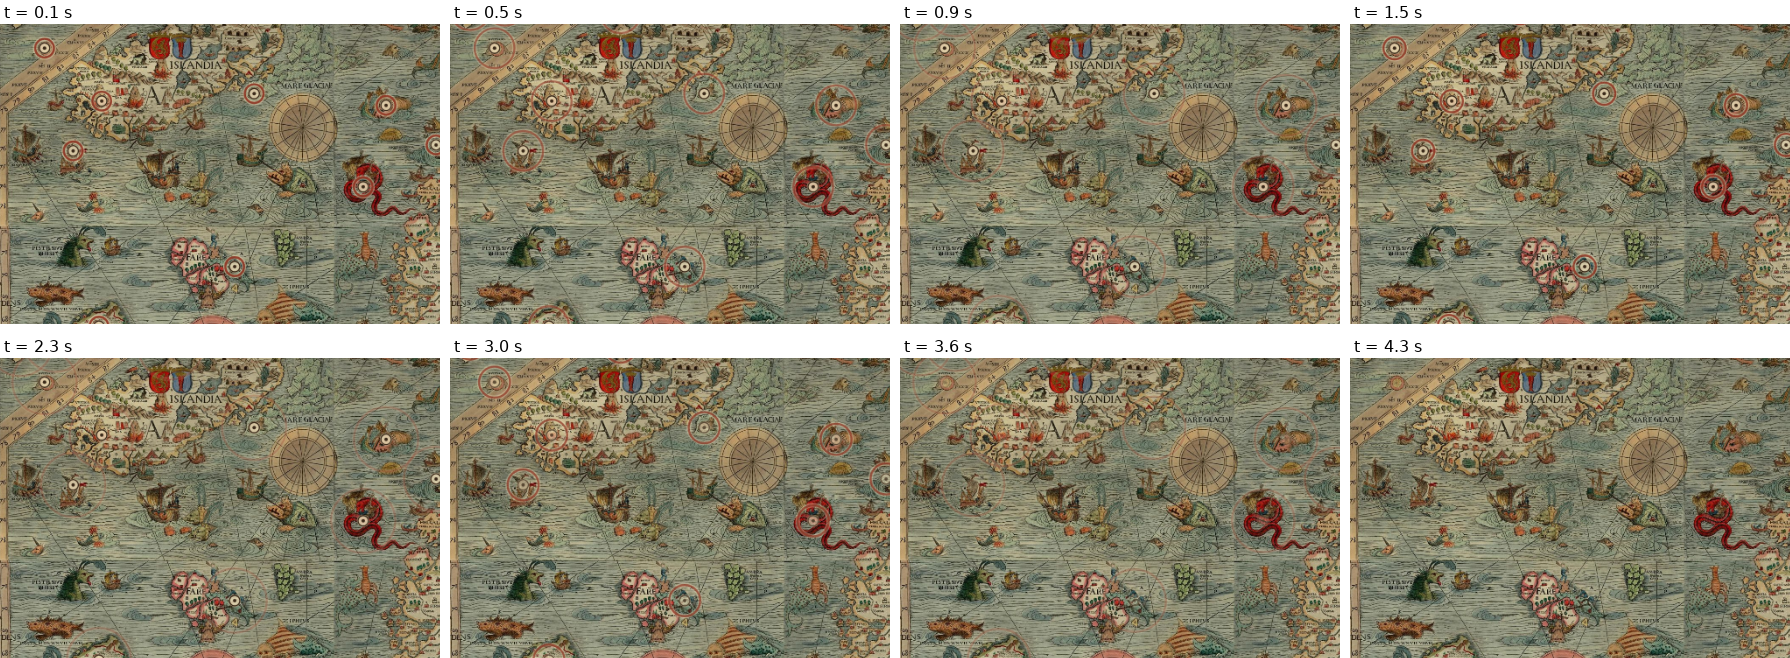
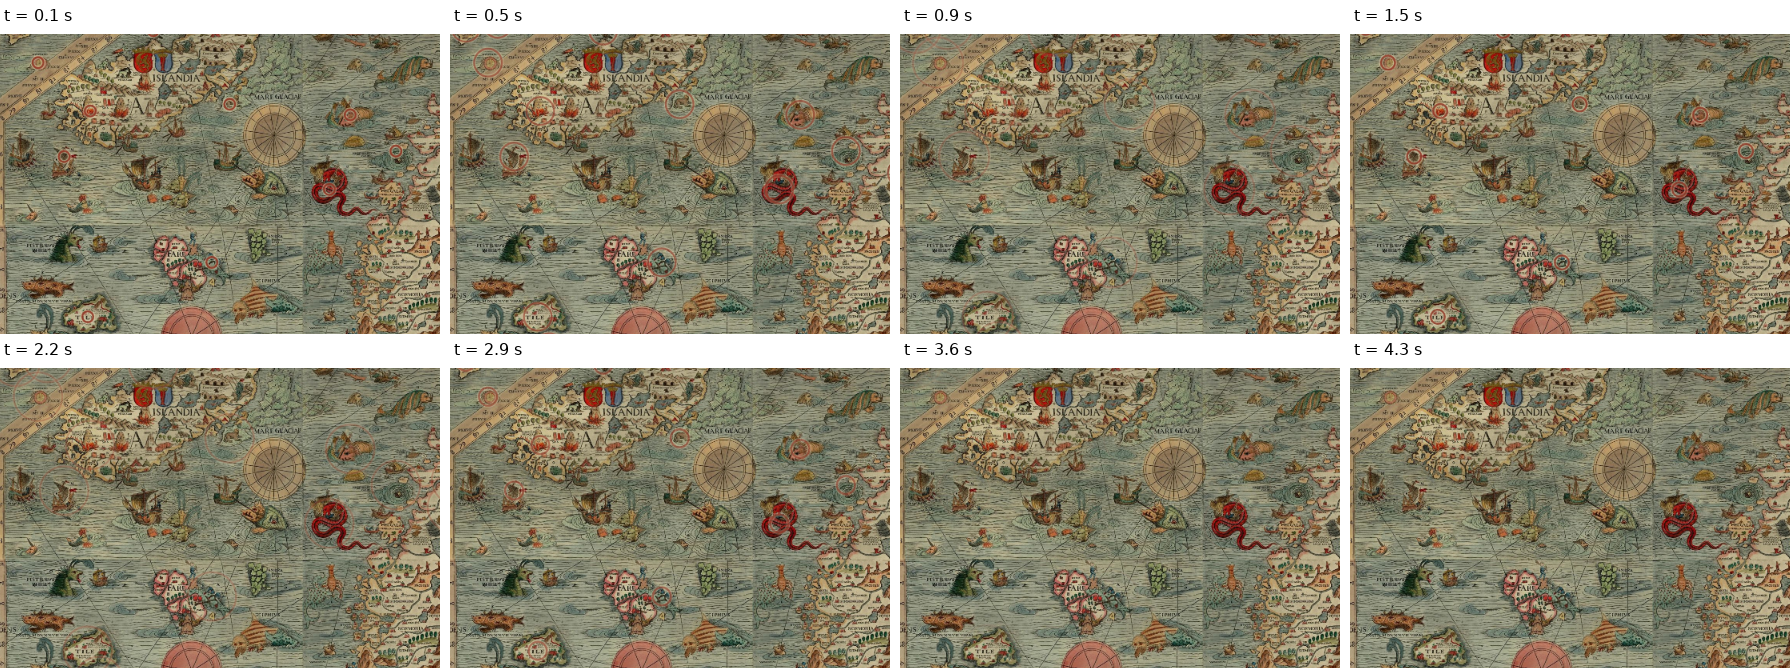
fix(notes): the pulse is rings alone; no mark sits on the chart at any moment
The notes' pulse drew a solid mark at every note for most of its four
seconds, so the chart's art was covered by dots while it played. Now only
the moving rings draw, the last fading as it goes, and nothing stays after.
With reduced motion one still ring fades steadily instead of a held mark.
The Notes chip, off by default, is the one way to keep marks shown.

diff --git a/public/page.js b/public/page.js
@@ -1369,8 +1369,8 @@ addEventListener('keydown', (e) => { if (e.key === 'Escape') hideTile(); });
 // ---------------------------------------------------------------- over the map: the badges and the notes' marks
 // Drawn by the page over each placed scene and each moving frame, never part of the scene: the count badge on a group of
 // drawn marks within a tap's reach of each other (gone once the zoom parts them), and a laid chart's notes' marks while
-// they announce themselves (the pulse, docs/spec/design.md, "A chart's notes get their moment") or while their Notes chip
-// keeps them. A chart announces its notes when its sheet arrives (shown by any means, or fading in) and again when its
+// they announce themselves (the pulse, rings alone, docs/spec/design.md, "A chart's notes get their moment") or while
+// their Notes chip keeps them. A chart announces its notes when its sheet arrives (shown by any means, or fading in) and again when its
 // name or icon is clicked; afterwards nothing stays drawn on the scan, though a tap still finds every note.
 const notesKept = new Set(); // the charts whose marks their Notes chip keeps shown; off by default, and not in the link
 const seen = new Set(); // the charts shown that have announced their notes since they were shown
@@ -1384,8 +1384,8 @@ function drawLayer(g, proj, zoom, badges = true, now = performance.now()) {
     const kept = notesKept.has(o.id), on = !!p && pulse.ids.has(o.id);
     if (!kept && !on) return;
     for (const m of notesOf(o, i, all, proj)) {
-      if (on && p.ring != null) drawNoteRing(g, m, p.ring);
-      drawNoteMark(g, m, kept ? 1 : p.alpha);
+      if (on) drawNoteRing(g, m, p.ring, p.alpha); // the pulse is rings alone: no mark sits on the art
+      if (kept) drawNoteMark(g, m);
     }
   });
   if (badges) for (const { marks, lead } of groupMarks(pointMarks(proj, zoom), cssPx(TAP_REACH))) if (marks.length > 1) drawBadge(g, lead, marks.length);
